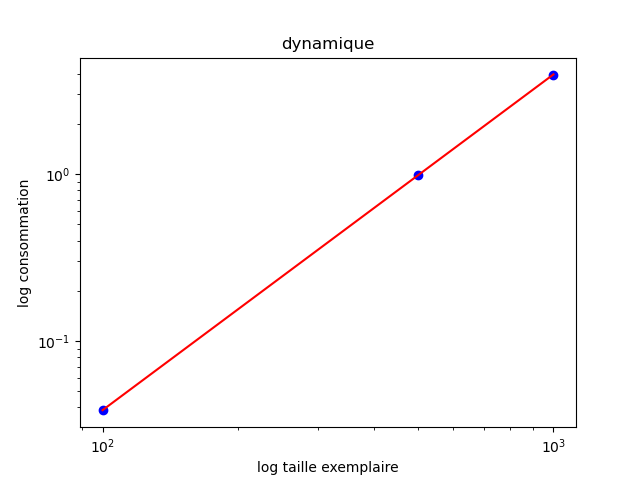
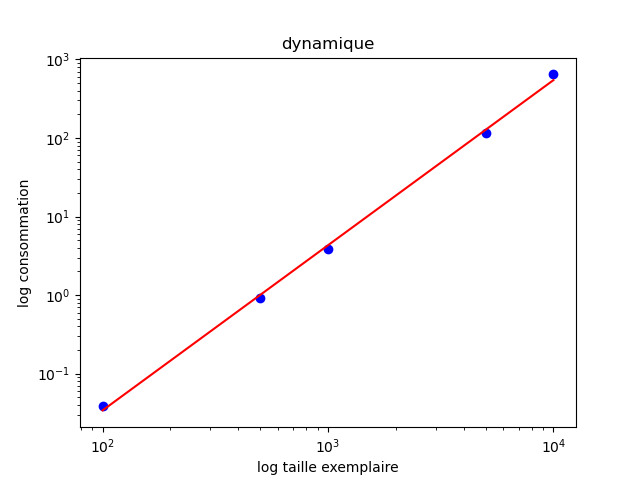
finished tim script and nearly done with report

diff --git a/TP2-H22/remise/plot.py b/TP2-H22/remise/plot.py
@@ -5,7 +5,7 @@ def nlogn(x):
     return x*np.log(x)
 
 def n_pow3(x):
-    return x**3
+    return x**3/1e5
 
 def n_2(x):
     return x**2
@@ -18,7 +18,7 @@ def test_rapport(time, sample_size, f, label):
     c = 10
 
     fig = plt.figure()
-    plt.plot(sample_size, rapport, 'ob')
+    plt.plot(sample_size, rapport, 'ob', label = label)
     #plt.plot(x, c*np.ones(len(x)), '-r', label = f"y = {c}")
     plt.legend()
     plt.title(f"test rapport {label}")
@@ -37,28 +37,35 @@ def test_puissance(time, sample_size, label):
     poly = np.poly1d(coeffs)
     def yfit(x): return np.exp(poly(np.log(x)))
     plt.loglog(sample_size, yfit(sample_size), '-r', label = f"régression linéaire: y = {np.around(poly[1], 2)}x + {np.around(poly[0], 2)}")
-    plt.title(label)
+    plt.title(f'test puissance {label}')
     plt.xlabel('log taille exemplaire')
     plt.ylabel(f'log consommation')
-    plt.savefig(f'{label}.png')
+    plt.savefig(f'puissance_{label}.png')
     plt.legend()
     plt.show()
 
 if __name__ == "__main__":
-    full_example_size = [100, 500, 1000]
+    full_example_size = [100, 500, 1000, 5000, 10000]
+    glouton_example_size = [100, 500, 1000, 5000, 10000, 50000]
 
-    times = [[0.0003353499982040375, 0.03837472001905553, 1.1056947799981571], [0.0016419199877418579, 0.9923582699964755, 13.864413239993155], [0.0032874599855858833, 3.926810420001857, 38.429799999989335]]
-    time_glouton = [t[0] for t in times]
+    times = [[0.00031412001117132605, 0.0384246300032828, 1.08791016000323], [0.0018431499949656427, 0.9299275799945462, 13.387034240009962], [0.003835029999027029, 3.8469614399946295, 38.99465414001024], [0.0204482399916742, 114.97462790000137, 531.69224045999], [0.05190162999206223, 644.3122477500117, 1354.2938427500078]]
+    #time_glouton = [t[0] for t in times]
+    time_glouton = [0.0003322900156490505, 0.0010913899983279406, 0.0026745099981781094, 0.022384649998275562, 0.04086865000426769, 0.26108213999541474]
+
     time_dyn = [t[1] for t in times]
     time_tabou = [t[2] for t in times]
 
-    tower_size = [35.6, 83.7, 116.4]
+    tower_size = [[35.2, 38.1, 35.6], [82.3, 88.1, 83.7], [118.2, 127.8, 116.4], [268.2, 300.4, 268.0], [383.0, 425.5, 382.1]]
+    tabou_tower_size = [t[2] for t in tower_size]
 
-    # test_rapport(time_glouton, full_example_size, nlogn, 'glouton')
-    # test_puissance(time_dyn, full_example_size, 'dynamique')
-    # test_rapport(time_tabou, full_example_size, n_2, 'tabou')
-    #plt.plot(full_example_size, tower_size)
-    #plt.show()
+    test_rapport(time_glouton, glouton_example_size, nlogn, 'glouton')
+    test_puissance(time_dyn, full_example_size, 'dynamique')
+    test_puissance(time_tabou, full_example_size, 'tabou')
+    plt.plot(full_example_size, tower_size, label = ['glouton', 'prog_dyn', 'tabou'])
+    plt.legend()
+    plt.savefig('tower_size')
+    plt.show()
+    test_puissance(tabou_tower_size, full_example_size, 'tower_size_tabou')
 
 
 

diff --git a/TP2-H22/remise/time.py b/TP2-H22/remise/time.py
@@ -1,18 +1,36 @@
 from tp import main
 
+def write_results(path, results, sz):
+    with open(path, "a") as f:
+        f.write(f"sample_size: {sz} \n")
+        for r in results:
+            f.write(str(r) + str("\n"))
+        f.write(str("\n"))
+    return
 
 
 if __name__ == "__main__":
-    time_list = []
-    height_list = []
-    length_list = []
-    full_example_size = [100, 500, 1000, 5000, 10000]
+
+    file_path = "full_results.txt"
+
+    time_avg_list = []
+    height_avg_list = []
+    length_avg_list = []
+    full_example_size = [100, 500, 1000, 5000, 10000, 50000]
     n_sample = 10
-    for sz in full_example_size:
+    for sz in [100]:
+        print(f"n= {sz}")
         t_avg = []
         h_avg = []
         l_avg = []
+
+        time_list = []
+        height_list = []
+
         for algo in ['glouton', 'progdyn', 'tabou']:
+            h_list = []
+            t_list = []
+            print(f"algo: {algo}")
             h_tot = 0
             t_tot = 0
             l = 0
@@ -21,14 +39,22 @@ if __name__ == "__main__":
                 h_tot += h
                 t_tot += t
                 l += len(res)
+                h_list.append(h)
+                t_list.append(t)
+        
             t_avg.append(h_tot/n_sample)
             h_avg.append(t_tot/n_sample)
             l_avg.append(l/n_sample)
-        time_list.append(t_avg)
-        height_list.append(h_avg)
-        length_list.append(l_avg)
+
+            time_list.append(t_list)
+            height_list.append(h_list)
+
+
+        write_results(file_path, [time_list, height_list, t_avg, h_avg, l_avg], sz)
+
+        time_avg_list.append(t_avg)
+        height_avg_list.append(h_avg)
+        length_avg_list.append(l_avg)
     
-    print(time_list)
-    print(height_list)
-    print(length_list)
+    print("Finish !")
         
